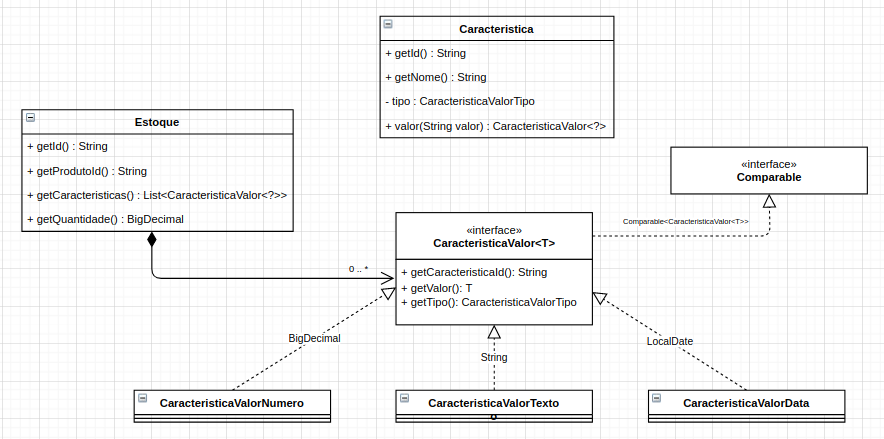
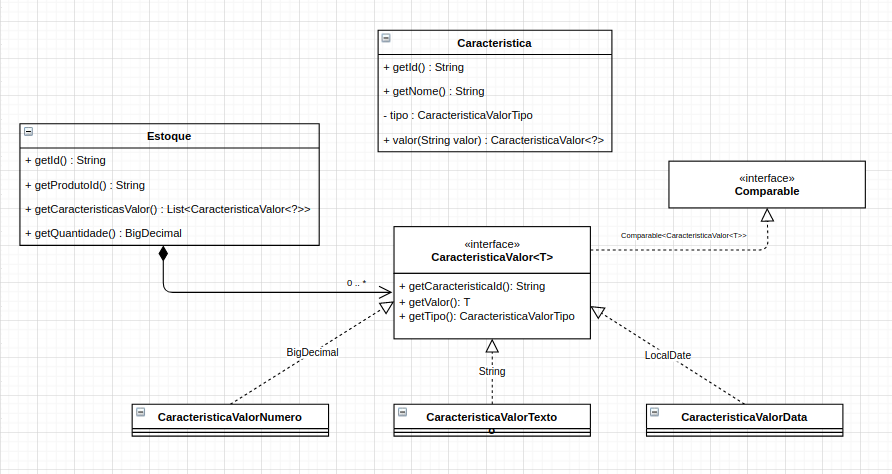
ajustes nomenclatura

diff --git a/construcao-objetos-enum-factory/src/test/java/com/totvs/guildjava/construcaoobjetos/enumfactory/estoque/dominio/EstoqueTest.java b/construcao-objetos-enum-factory/src/test/java/com/totvs/guildjava/construcaoobjetos/enumfactory/estoque/dominio/EstoqueTest.java
@@ -4,13 +4,13 @@ import static com.totvs.guildjava.construcaoobjetos.enumfactory.caracteristica.d
 import static com.totvs.guildjava.construcaoobjetos.enumfactory.caracteristica.dominio.CaracteristicaValorTipo.NUMERO;
 import static com.totvs.guildjava.construcaoobjetos.enumfactory.caracteristica.dominio.CaracteristicaValorTipo.TEXTO;
 import static java.util.UUID.randomUUID;
-import static java.util.stream.Collectors.toList;
 import static org.assertj.core.api.Assertions.assertThat;
 
 import java.math.BigDecimal;
 import java.util.ArrayList;
 import java.util.Comparator;
 import java.util.List;
+import java.util.stream.Collectors;
 
 import org.junit.jupiter.api.Test;
 
@@ -45,18 +45,17 @@ class EstoqueTest {
 		/*
 		 * ----- primeira entrada no estoque com os valores para cada característica
 		 */
-		EntradaEstoqueDTO primeiraEntradaEstoqueDTO = new EntradaEstoqueDTO();
+		EntradaEstoqueDTO primeiraEntradaDTO = new EntradaEstoqueDTO();
 
-		primeiraEntradaEstoqueDTO.produtoId = randomUUID().toString();
+		primeiraEntradaDTO.produtoId = randomUUID().toString();
 
-		primeiraEntradaEstoqueDTO.caracteristicasValor.add(new CaracteristicaValorDTO(lote.getId(), "LOTE Z"));
-		primeiraEntradaEstoqueDTO.caracteristicasValor.add(new CaracteristicaValorDTO(dataValidade.getId(), "2021-12-31"));
-		primeiraEntradaEstoqueDTO.caracteristicasValor.add(new CaracteristicaValorDTO(indiceFragilidade.getId(),
-		                                                                              "1.3"));
+		primeiraEntradaDTO.caracteristicasValor.add(new CaracteristicaValorDTO(lote.getId(), "LOTE Z"));
+		primeiraEntradaDTO.caracteristicasValor.add(new CaracteristicaValorDTO(dataValidade.getId(), "2021-12-31"));
+		primeiraEntradaDTO.caracteristicasValor.add(new CaracteristicaValorDTO(indiceFragilidade.getId(), "1.3"));
 
-		primeiraEntradaEstoqueDTO.quantidade = BigDecimal.TEN;
+		primeiraEntradaDTO.quantidade = BigDecimal.TEN;
 
-		List<CaracteristicaValor<?>> cvPrimeiraEntrada = primeiraEntradaEstoqueDTO.caracteristicasValor.stream().map(cvDTO -> {
+		List<CaracteristicaValor<?>> cvPrimeiraEntrada = primeiraEntradaDTO.caracteristicasValor.stream().map(cvDTO -> {
 
 			Caracteristica caracteristica = caracteristicas.stream()
 			                                               .filter(c -> c.getId().equals(cvDTO.caracteristicaId))
@@ -65,12 +64,12 @@ class EstoqueTest {
 
 			return caracteristica.valor(cvDTO.valor);
 
-		}).collect(toList());
+		}).collect(Collectors.toList());
 
 		var estoque01 = Estoque.builder()
 		                       .id(randomUUID().toString())
-		                       .produtoId(primeiraEntradaEstoqueDTO.produtoId)
-		                       .quantidade(primeiraEntradaEstoqueDTO.quantidade)
+		                       .produtoId(primeiraEntradaDTO.produtoId)
+		                       .quantidade(primeiraEntradaDTO.quantidade)
 		                       .caracteristicas(cvPrimeiraEntrada)
 		                       .build();
 
@@ -80,17 +79,17 @@ class EstoqueTest {
 		 * ----- segunda entrada no estoque com os valores para cada característica
 		 */
 
-		EntradaEstoqueDTO segundaEntradaEstoqueDTO = new EntradaEstoqueDTO();
+		EntradaEstoqueDTO segundaEntradaDTO = new EntradaEstoqueDTO();
 
-		segundaEntradaEstoqueDTO.produtoId = randomUUID().toString();
+		segundaEntradaDTO.produtoId = randomUUID().toString();
 
-		segundaEntradaEstoqueDTO.caracteristicasValor.add(new CaracteristicaValorDTO(lote.getId(), "LOTE A"));
-		segundaEntradaEstoqueDTO.caracteristicasValor.add(new CaracteristicaValorDTO(dataValidade.getId(), "2020-12-31"));
-		segundaEntradaEstoqueDTO.caracteristicasValor.add(new CaracteristicaValorDTO(indiceFragilidade.getId(), "1.1"));
+		segundaEntradaDTO.caracteristicasValor.add(new CaracteristicaValorDTO(lote.getId(), "LOTE A"));
+		segundaEntradaDTO.caracteristicasValor.add(new CaracteristicaValorDTO(dataValidade.getId(), "2020-12-31"));
+		segundaEntradaDTO.caracteristicasValor.add(new CaracteristicaValorDTO(indiceFragilidade.getId(), "1.1"));
 
-		segundaEntradaEstoqueDTO.quantidade = BigDecimal.TEN;
+		segundaEntradaDTO.quantidade = BigDecimal.TEN;
 
-		List<CaracteristicaValor<?>> cvSegundaEntrada = segundaEntradaEstoqueDTO.caracteristicasValor.stream().map(cvDTO -> {
+		List<CaracteristicaValor<?>> cvSegundaEntrada = segundaEntradaDTO.caracteristicasValor.stream().map(cvDTO -> {
 
 			Caracteristica caracteristica = caracteristicas.stream()
 			                                               .filter(c -> c.getId().equals(cvDTO.caracteristicaId))
@@ -99,12 +98,12 @@ class EstoqueTest {
 
 			return caracteristica.valor(cvDTO.valor);
 
-		}).collect(toList());
+		}).collect(Collectors.toList());
 
 		var estoque02 = Estoque.builder()
 		                       .id(randomUUID().toString())
-		                       .produtoId(segundaEntradaEstoqueDTO.produtoId)
-		                       .quantidade(segundaEntradaEstoqueDTO.quantidade)
+		                       .produtoId(segundaEntradaDTO.produtoId)
+		                       .quantidade(segundaEntradaDTO.quantidade)
 		                       .caracteristicas(cvSegundaEntrada)
 		                       .build();
 

diff --git a/construcao-objetos-enum-factory/src/main/java/com/totvs/guildjava/construcaoobjetos/enumfactory/caracteristica/dominio/CaracteristicaValorTipo.java b/construcao-objetos-enum-factory/src/main/java/com/totvs/guildjava/construcaoobjetos/enumfactory/caracteristica/dominio/CaracteristicaValorTipo.java
@@ -8,8 +8,8 @@ public enum CaracteristicaValorTipo {
 	TEXTO {
 
 		@Override
-		public CaracteristicaValorTexto createInstance(String id, String valor) {
-			return new CaracteristicaValorTexto(id, valor);
+		public CaracteristicaValorTexto createInstance(String caracteristicaId, String valor) {
+			return new CaracteristicaValorTexto(caracteristicaId, valor);
 		}
 
 	},
@@ -17,8 +17,8 @@ public enum CaracteristicaValorTipo {
 	NUMERO {
 
 		@Override
-		public CaracteristicaValorNumero createInstance(String id, String valor) {
-			return new CaracteristicaValorNumero(id, new BigDecimal(valor));
+		public CaracteristicaValorNumero createInstance(String caracteristicaId, String valor) {
+			return new CaracteristicaValorNumero(caracteristicaId, new BigDecimal(valor));
 		}
 
 	},
@@ -26,12 +26,12 @@ public enum CaracteristicaValorTipo {
 	DATA {
 
 		@Override
-		public CaracteristicaValorData createInstance(String id, String valor) {
-			return new CaracteristicaValorData(id, LocalDate.parse(valor));
+		public CaracteristicaValorData createInstance(String caracteristicaId, String valor) {
+			return new CaracteristicaValorData(caracteristicaId, LocalDate.parse(valor));
 		}
 
 	};
 
-	public abstract CaracteristicaValor<?> createInstance(String id, String valor);
+	public abstract CaracteristicaValor<?> createInstance(String caracteristicaId, String valor);
 
 }

diff --git a/construcao-objetos-enum-factory/src/main/java/com/totvs/guildjava/construcaoobjetos/enumfactory/caracteristica/dominio/CaracteristicaValorNumero.java b/construcao-objetos-enum-factory/src/main/java/com/totvs/guildjava/construcaoobjetos/enumfactory/caracteristica/dominio/CaracteristicaValorNumero.java
@@ -5,19 +5,19 @@ import java.util.Objects;
 
 public class CaracteristicaValorNumero implements CaracteristicaValor<BigDecimal> {
 
-	private String id;
+	private String caracteristicaId;
 	private BigDecimal valor;
 
-	protected CaracteristicaValorNumero {}
+	protected CaracteristicaValorNumero() {}
 
 	protected CaracteristicaValorNumero(String id, BigDecimal valor) {
-		this.id = id;
+		this.caracteristicaId = id;
 		this.valor = valor;
 	}
 
 	@Override
-	public String getId() {
-		return id;
+	public String getCaracteristicaId() {
+		return caracteristicaId;
 	}
 
 	@Override
@@ -32,12 +32,12 @@ public class CaracteristicaValorNumero implements CaracteristicaValor<BigDecimal
 
 	@Override
 	public int hashCode() {
-		return Objects.hashCode(this.id);
+		return Objects.hashCode(this.caracteristicaId);
 	}
 
 	@Override
 	public boolean equals(Object obj) {
-		return Objects.equals(this.id, obj);
+		return Objects.equals(this.caracteristicaId, obj);
 	}
 
 	@Override
@@ -47,7 +47,7 @@ public class CaracteristicaValorNumero implements CaracteristicaValor<BigDecimal
 
 	@Override
 	public String toString() {
-		return "ValorNumero [id=" + id + ", valor=" + valor + "]";
+		return "ValorNumero [id=" + caracteristicaId + ", valor=" + valor + "]";
 	}
 
 }

diff --git a/construcao-objetos-enum-factory/src/main/java/com/totvs/guildjava/construcaoobjetos/enumfactory/caracteristica/dominio/CaracteristicaValorTexto.java b/construcao-objetos-enum-factory/src/main/java/com/totvs/guildjava/construcaoobjetos/enumfactory/caracteristica/dominio/CaracteristicaValorTexto.java
@@ -4,19 +4,19 @@ import java.util.Objects;
 
 public class CaracteristicaValorTexto implements CaracteristicaValor<String> {
 
-	private String id;
+	private String caracteristicaId;
 	private String valor;
 
 	protected CaracteristicaValorTexto() {}
 
 	protected CaracteristicaValorTexto(String id, String valor) {
-		this.id = id;
+		this.caracteristicaId = id;
 		this.valor = valor;
 	}
 
 	@Override
-	public String getId() {
-		return id;
+	public String getCaracteristicaId() {
+		return caracteristicaId;
 	}
 
 	@Override
@@ -31,12 +31,12 @@ public class CaracteristicaValorTexto implements CaracteristicaValor<String> {
 
 	@Override
 	public int hashCode() {
-		return Objects.hashCode(this.id);
+		return Objects.hashCode(this.caracteristicaId);
 	}
 
 	@Override
 	public boolean equals(Object obj) {
-		return Objects.equals(this.id, obj);
+		return Objects.equals(this.caracteristicaId, obj);
 	}
 
 	@Override
@@ -46,7 +46,7 @@ public class CaracteristicaValorTexto implements CaracteristicaValor<String> {
 
 	@Override
 	public String toString() {
-		return "ValorTexto [id=" + id + ", valor=" + valor + "]";
+		return "ValorTexto [id=" + caracteristicaId + ", valor=" + valor + "]";
 	}
 
 }

diff --git a/construcao-objetos-enum-factory/src/main/java/com/totvs/guildjava/construcaoobjetos/enumfactory/estoque/dominio/Estoque.java b/construcao-objetos-enum-factory/src/main/java/com/totvs/guildjava/construcaoobjetos/enumfactory/estoque/dominio/Estoque.java
@@ -2,6 +2,7 @@ package com.totvs.guildjava.construcaoobjetos.enumfactory.estoque.dominio;
 
 import java.math.BigDecimal;
 import java.util.ArrayList;
+import java.util.Collections;
 import java.util.List;
 import java.util.Objects;
 
@@ -42,8 +43,12 @@ public class Estoque {
 		return Collections.unmodifiableList(caracteristicasValor);
 	}
 
-	public CaracteristicaValor<?> getCaracteristicaValor(String id) {
-		return this.getCaracteristicasValor().stream().filter(cv -> cv.getId().equals(id)).findFirst().orElseThrow();
+	public CaracteristicaValor<?> getCaracteristicaValor(String caracteristicaId) {
+		return this.getCaracteristicasValor()
+		           .stream()
+		           .filter(cv -> cv.getCaracteristicaId().equals(caracteristicaId))
+		           .findFirst()
+		           .orElseThrow();
 	}
 
 	public static EstoqueBuilder builder() {
@@ -99,7 +104,7 @@ public class Estoque {
 
 	@Override
 	public String toString() {
-		return "Estoque [id=" + id + ", produtoId=" + produtoId + ", caracteristicas=" + caracteristicasValor
+		return "Estoque [id=" + id + ", produtoId=" + produtoId + ", caracteristicasValor=" + caracteristicasValor
 		        + ", saldo=" + saldo + "]";
 	}
 }

diff --git a/construcao-objetos-enum-factory/src/main/java/com/totvs/guildjava/construcaoobjetos/enumfactory/caracteristica/dominio/CaracteristicaValorData.java b/construcao-objetos-enum-factory/src/main/java/com/totvs/guildjava/construcaoobjetos/enumfactory/caracteristica/dominio/CaracteristicaValorData.java
@@ -8,7 +8,7 @@ public class CaracteristicaValorData implements CaracteristicaValor<LocalDate> {
 	private String id;
 	private LocalDate valor;
 
-	protected CaracteristicaValorData {}
+	protected CaracteristicaValorData() {}
 
 	protected CaracteristicaValorData(String id, LocalDate valor) {
 		this.id = id;
@@ -16,7 +16,7 @@ public class CaracteristicaValorData implements CaracteristicaValor<LocalDate> {
 	}
 
 	@Override
-	public String getId() {
+	public String getCaracteristicaId() {
 		return id;
 	}
 

diff --git a/construcao-objetos-enum-factory/src/main/java/com/totvs/guildjava/construcaoobjetos/enumfactory/caracteristica/dominio/CaracteristicaValor.java b/construcao-objetos-enum-factory/src/main/java/com/totvs/guildjava/construcaoobjetos/enumfactory/caracteristica/dominio/CaracteristicaValor.java
@@ -2,7 +2,7 @@ package com.totvs.guildjava.construcaoobjetos.enumfactory.caracteristica.dominio
 
 public interface CaracteristicaValor<T> extends Comparable<CaracteristicaValor<T>> {
 
-	String getId();
+	String getCaracteristicaId();
 
 	T getValor();
 

diff --git a/construcao-objetos-enum-factory/src/main/java/com/totvs/guildjava/construcaoobjetos/enumfactory/caracteristica/dominio/Caracteristica.java b/construcao-objetos-enum-factory/src/main/java/com/totvs/guildjava/construcaoobjetos/enumfactory/caracteristica/dominio/Caracteristica.java
@@ -26,7 +26,7 @@ public class Caracteristica {
 		return nome;
 	}
 
-	public CaracteristicaValorTipo getTipoValor() {
+	protected CaracteristicaValorTipo getTipoValor() {
 		return tipoValor;
 	}
 
